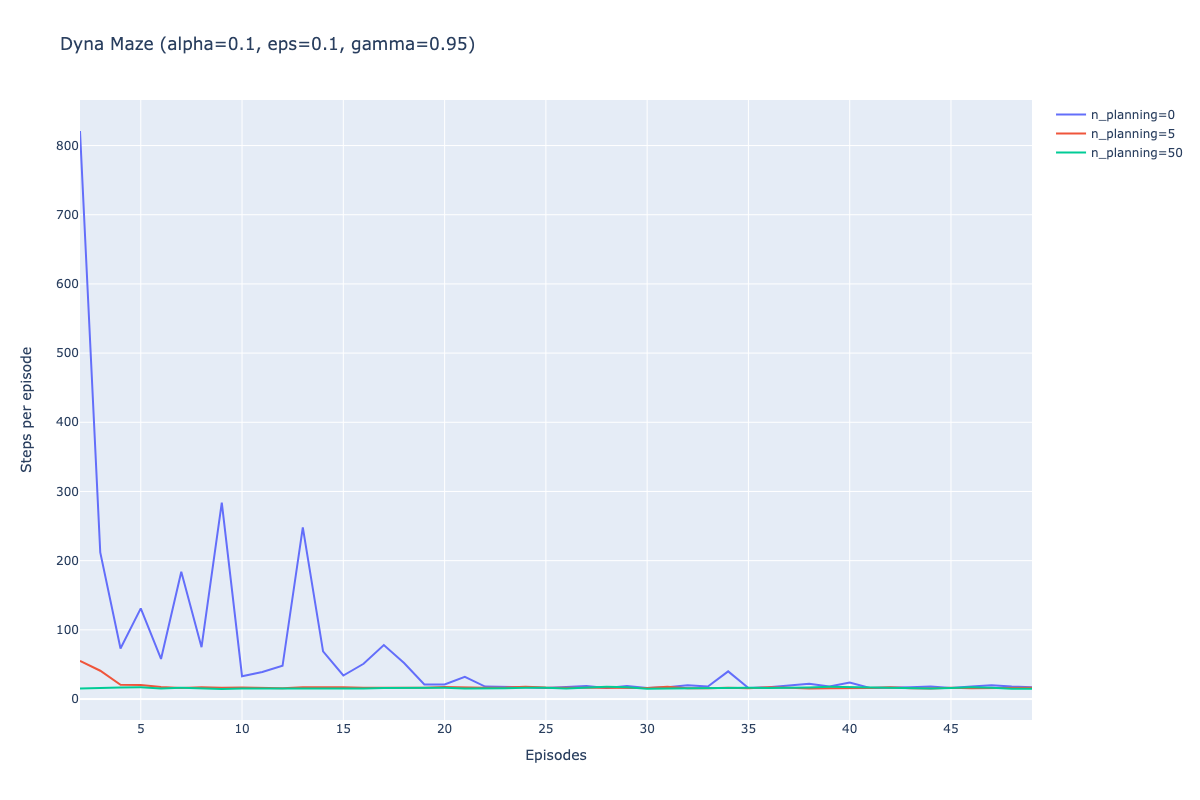
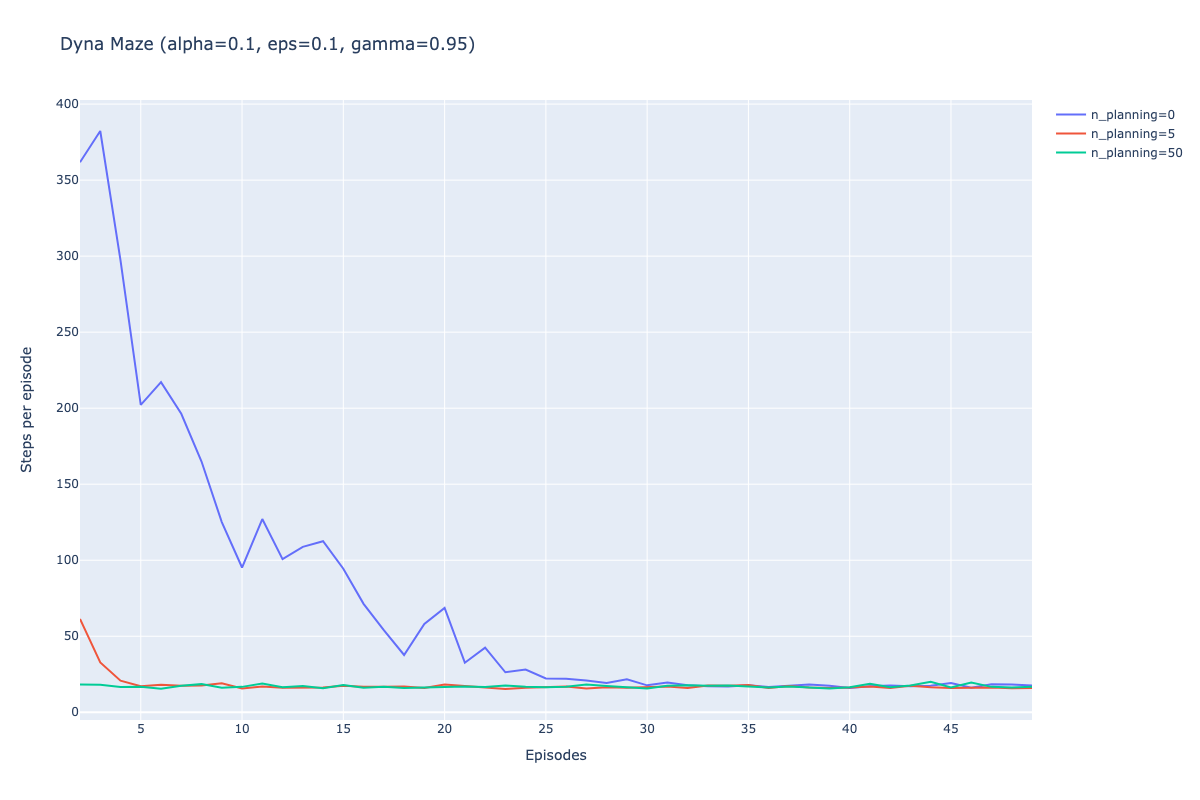
fix: update random seed

diff --git a/dyna_maze.py b/dyna_maze.py
@@ -170,7 +170,7 @@ if __name__ == "__main__":
     fig = go.Figure()
     for n in [0, 5, 50]:
         exp_result = []
-        for _ in range(num_experiments):
+        for k in range(num_experiments):
             maze = DynaMaze(maze1, start=State(x=2, y=0))
             state_space = [
                 State(x, y) for x in range(DynaMaze.M) for y in range(DynaMaze.N)
@@ -183,6 +183,7 @@ if __name__ == "__main__":
                 alpha=alpha,
                 gamma=gamma,
                 n_planning=n,
+                seed=k,
             )
 
             time_steps = []
